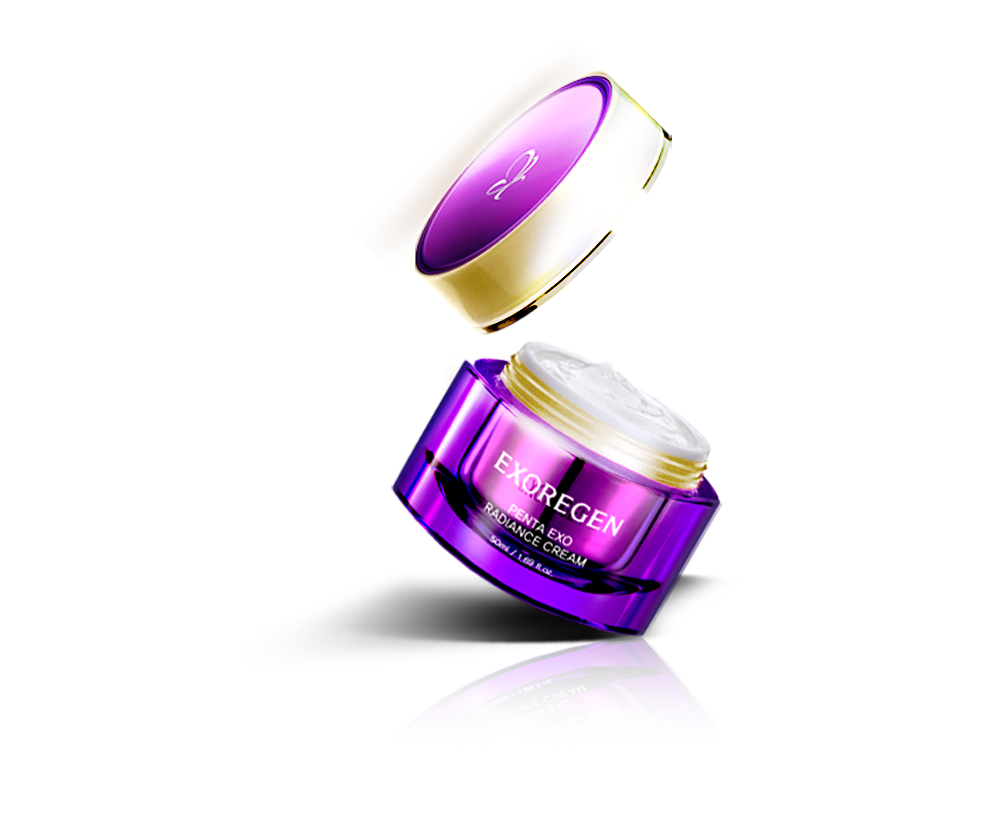
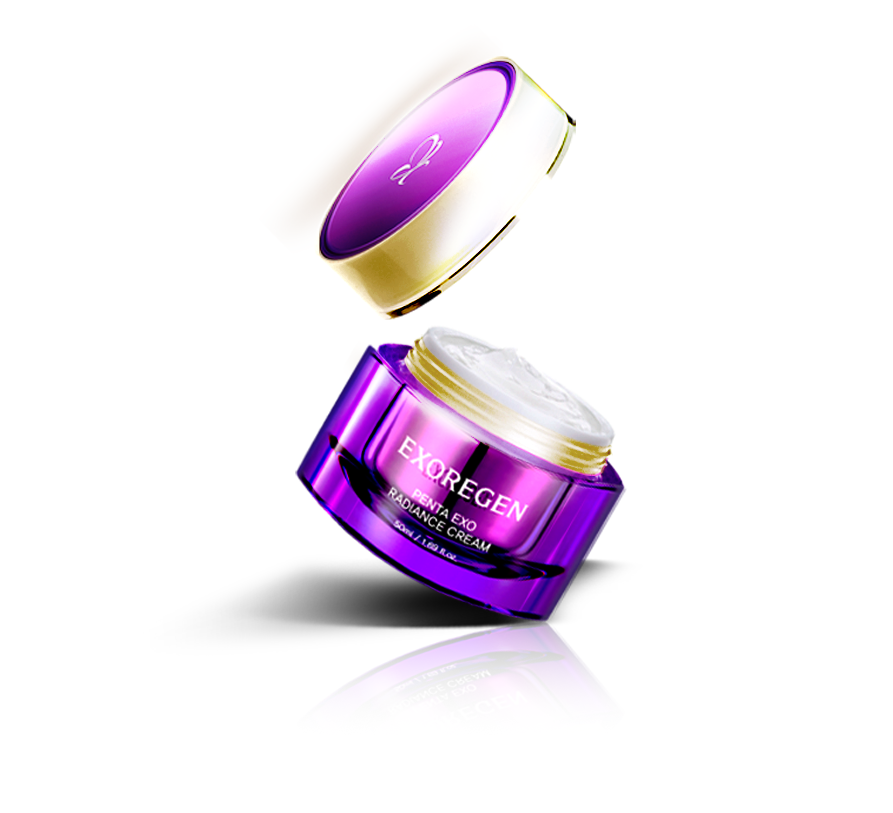
[PC] section 최대 가로사이즈  2000px값으로 수정

Changed region(s): [[0.2721, 0.0615, 0.7559, 0.8303], [0.6349, 0.2153, 0.6652, 0.246], [0.6047, 0.2768, 0.6349, 0.3075]]

diff --git a/src_/css/landing1.css b/src_/css/landing1.css
@@ -1,3 +1,12 @@
+body {
+    background: #000;
+}
+
+section {
+    max-width: 2000px;
+    margin: 0 auto;
+    overflow: hidden;
+}
 .product-sec {
     background-image: url('/img_/landing/sec1-bg.jpg?ver=220829');
     background-repeat: no-repeat;
@@ -5,6 +14,19 @@
     background-position: center;
     padding-top: 129px;
     min-width: 1200px;
+}
+
+.product-sec .into-wrap {
+    min-width: 1200px;
+    height: 689px;
+    position: relative;
+}
+
+.product-sec .into-wrap video {
+    height: 100%;
+    position: absolute;
+    left: 50%;
+    transform: translateX(-50%);
 }
 
 .pdt-info-box {
@@ -165,12 +187,14 @@
 }
 
 .buy-sec {
-    width: 1200px;
     margin: 0 auto;
     padding: 120px 0;
+    background: #fff;
 }
 
 .buy-sec .buy-cont-wrap {
+    width: 1200px;
+    margin: 0 auto;
     display: flex;
     align-items: center;
     gap: 110px;
@@ -332,8 +356,25 @@
 }
 
 .percent-sec {
-    background-image: url('/img_/landing/sec4-bg.jpg');
+    background-image: url('/img_/landing/sec4-bg2.jpg');
     background-repeat: no-repeat;
-    background-size: cover;
+    background-size: 100%;
     padding: 115px 0;
+}
+
+.percent-sec .percent-tit-wrap {
+    text-align: center;
+}
+
+.percent-sec .percent-tit-wrap .pdt-sub {
+    font-size: 16px;
+    color: #fff;
+    letter-spacing: 0.2em;
+    margin-bottom: 25px;
+    opacity: 0.2;
+}
+
+.percent-sec .percent-tit-wrap .percent-tit {
+    color: #fff;
+    font-size: 38px;
 }

diff --git a/landing/penta_landing.html b/landing/penta_landing.html
@@ -431,7 +431,14 @@
     <!-- 퍼센테이지 섹션 -->
     <section class="percent-sec">
         <div class="percent-tit-wrap">
-            
+            <p class="pdt-sub">PENTA EXO RADIANCE CREAM</p>
+            <h3 class="percent-tit">항노화 효능 평가 시험 개선율</h3>
+        </div>
+
+        <div class="percent-cont-wrap">
+            <div class="img-wrap">
+                <img src="/img_/landing/sec4-bg-cont.png" alt="">
+            </div>
         </div>
     </section>
     <!-- ...퍼센테이지 섹션 -->
